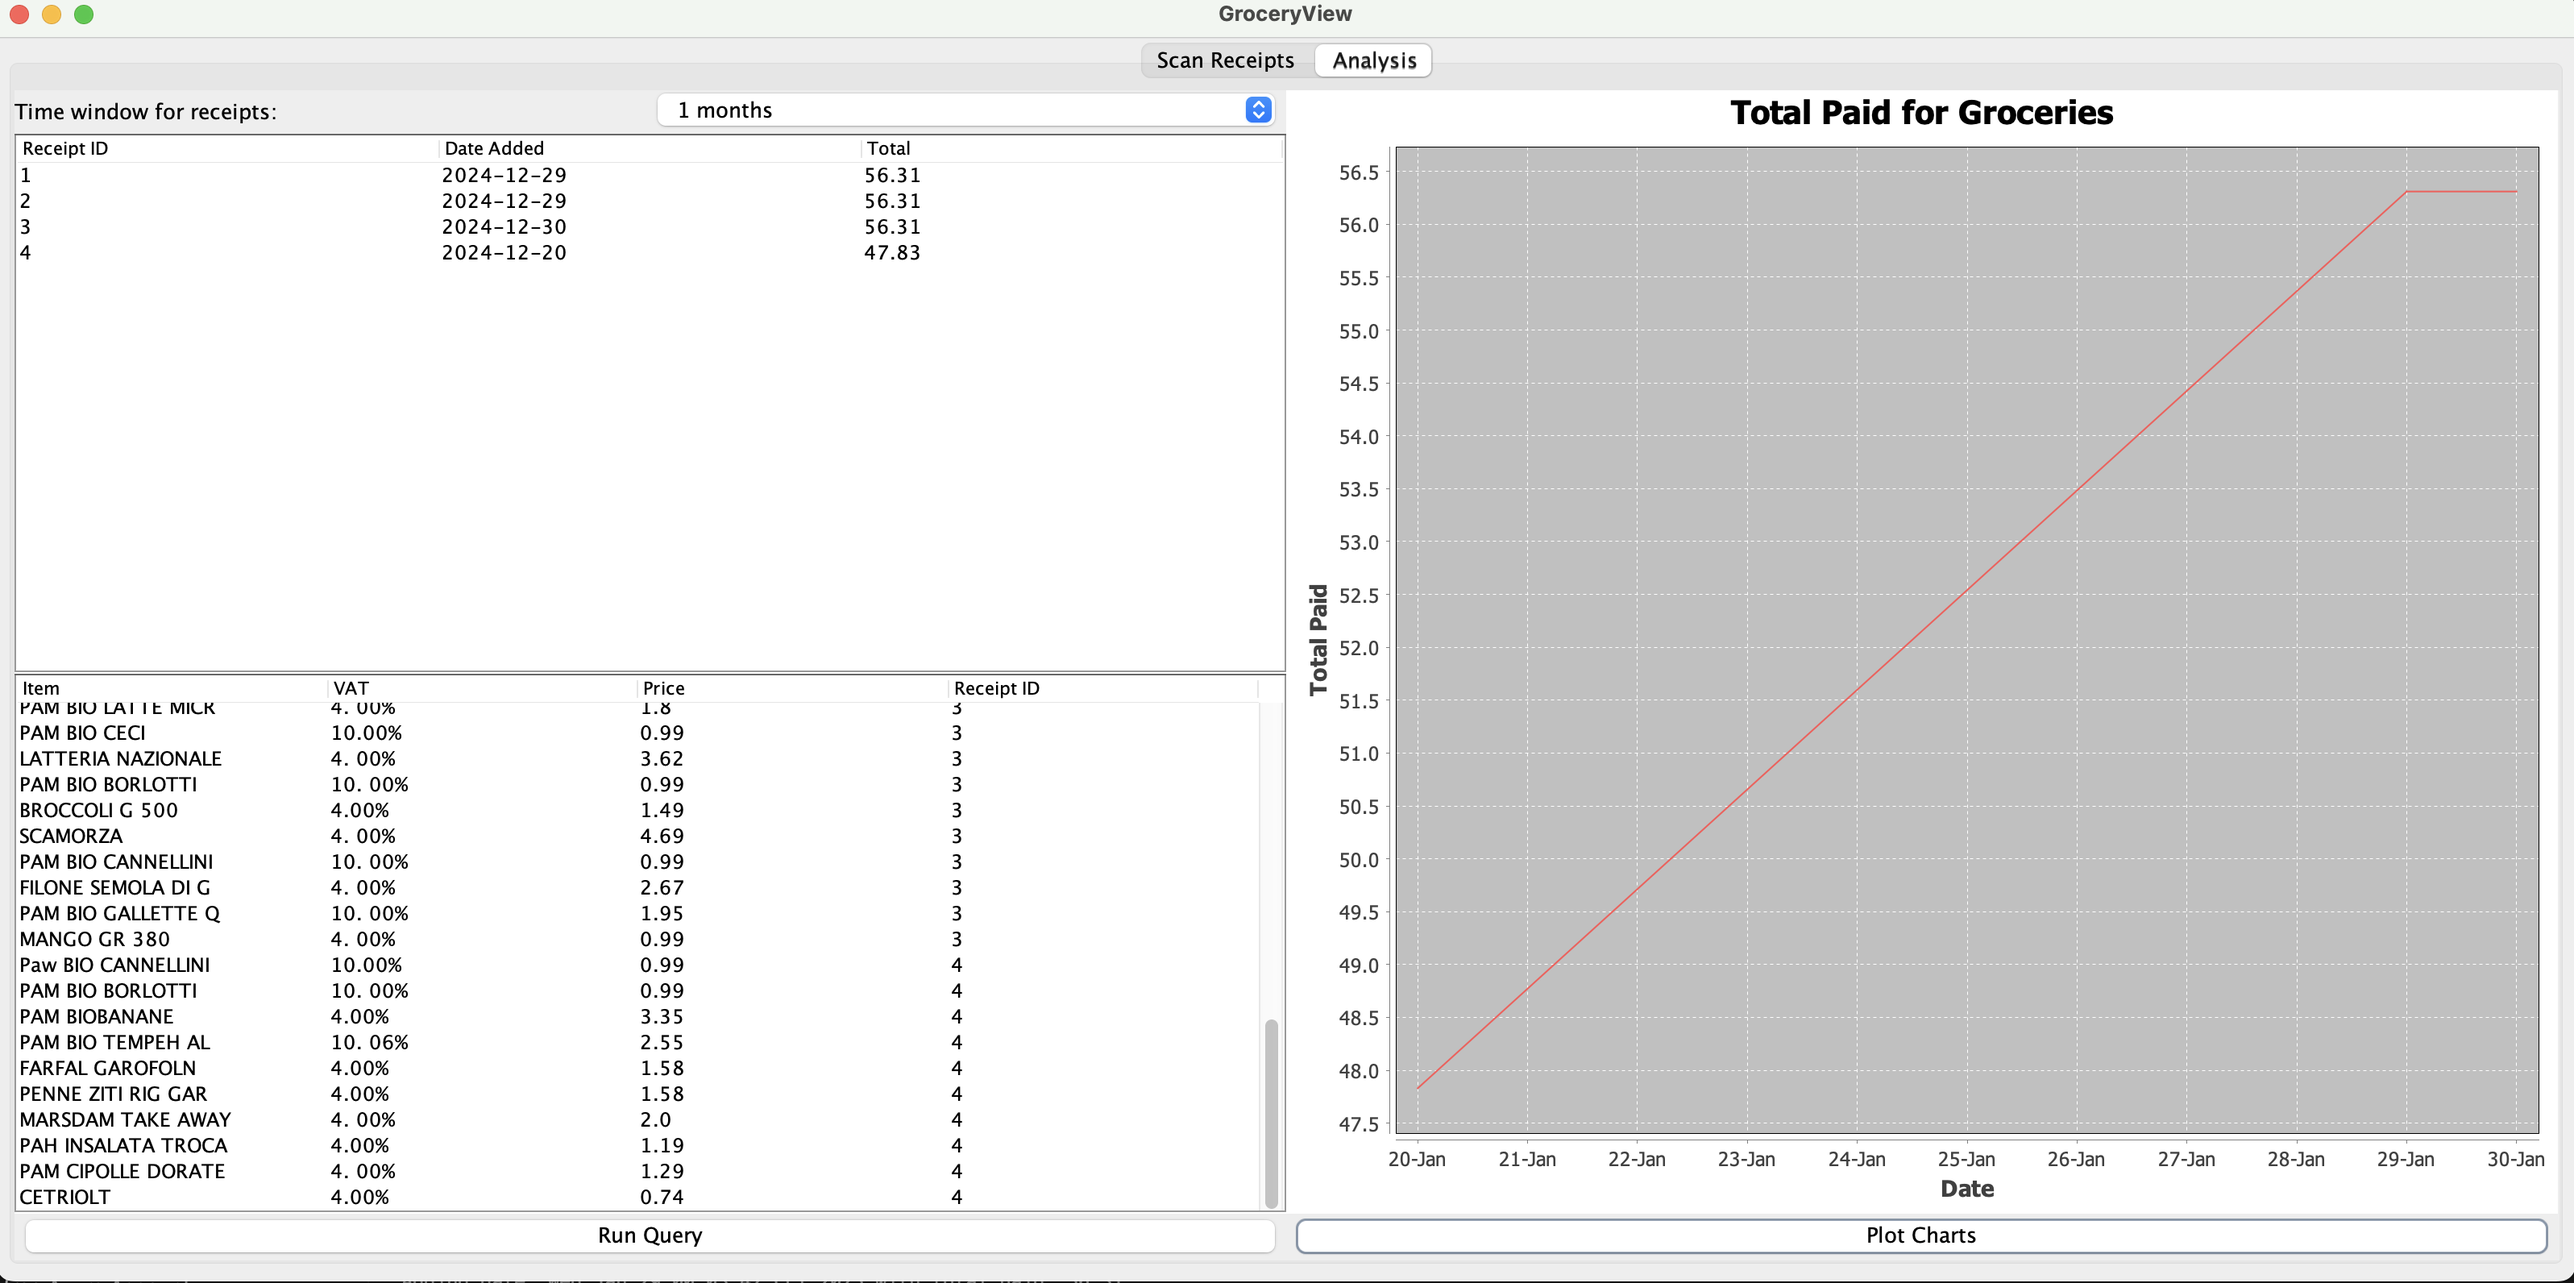
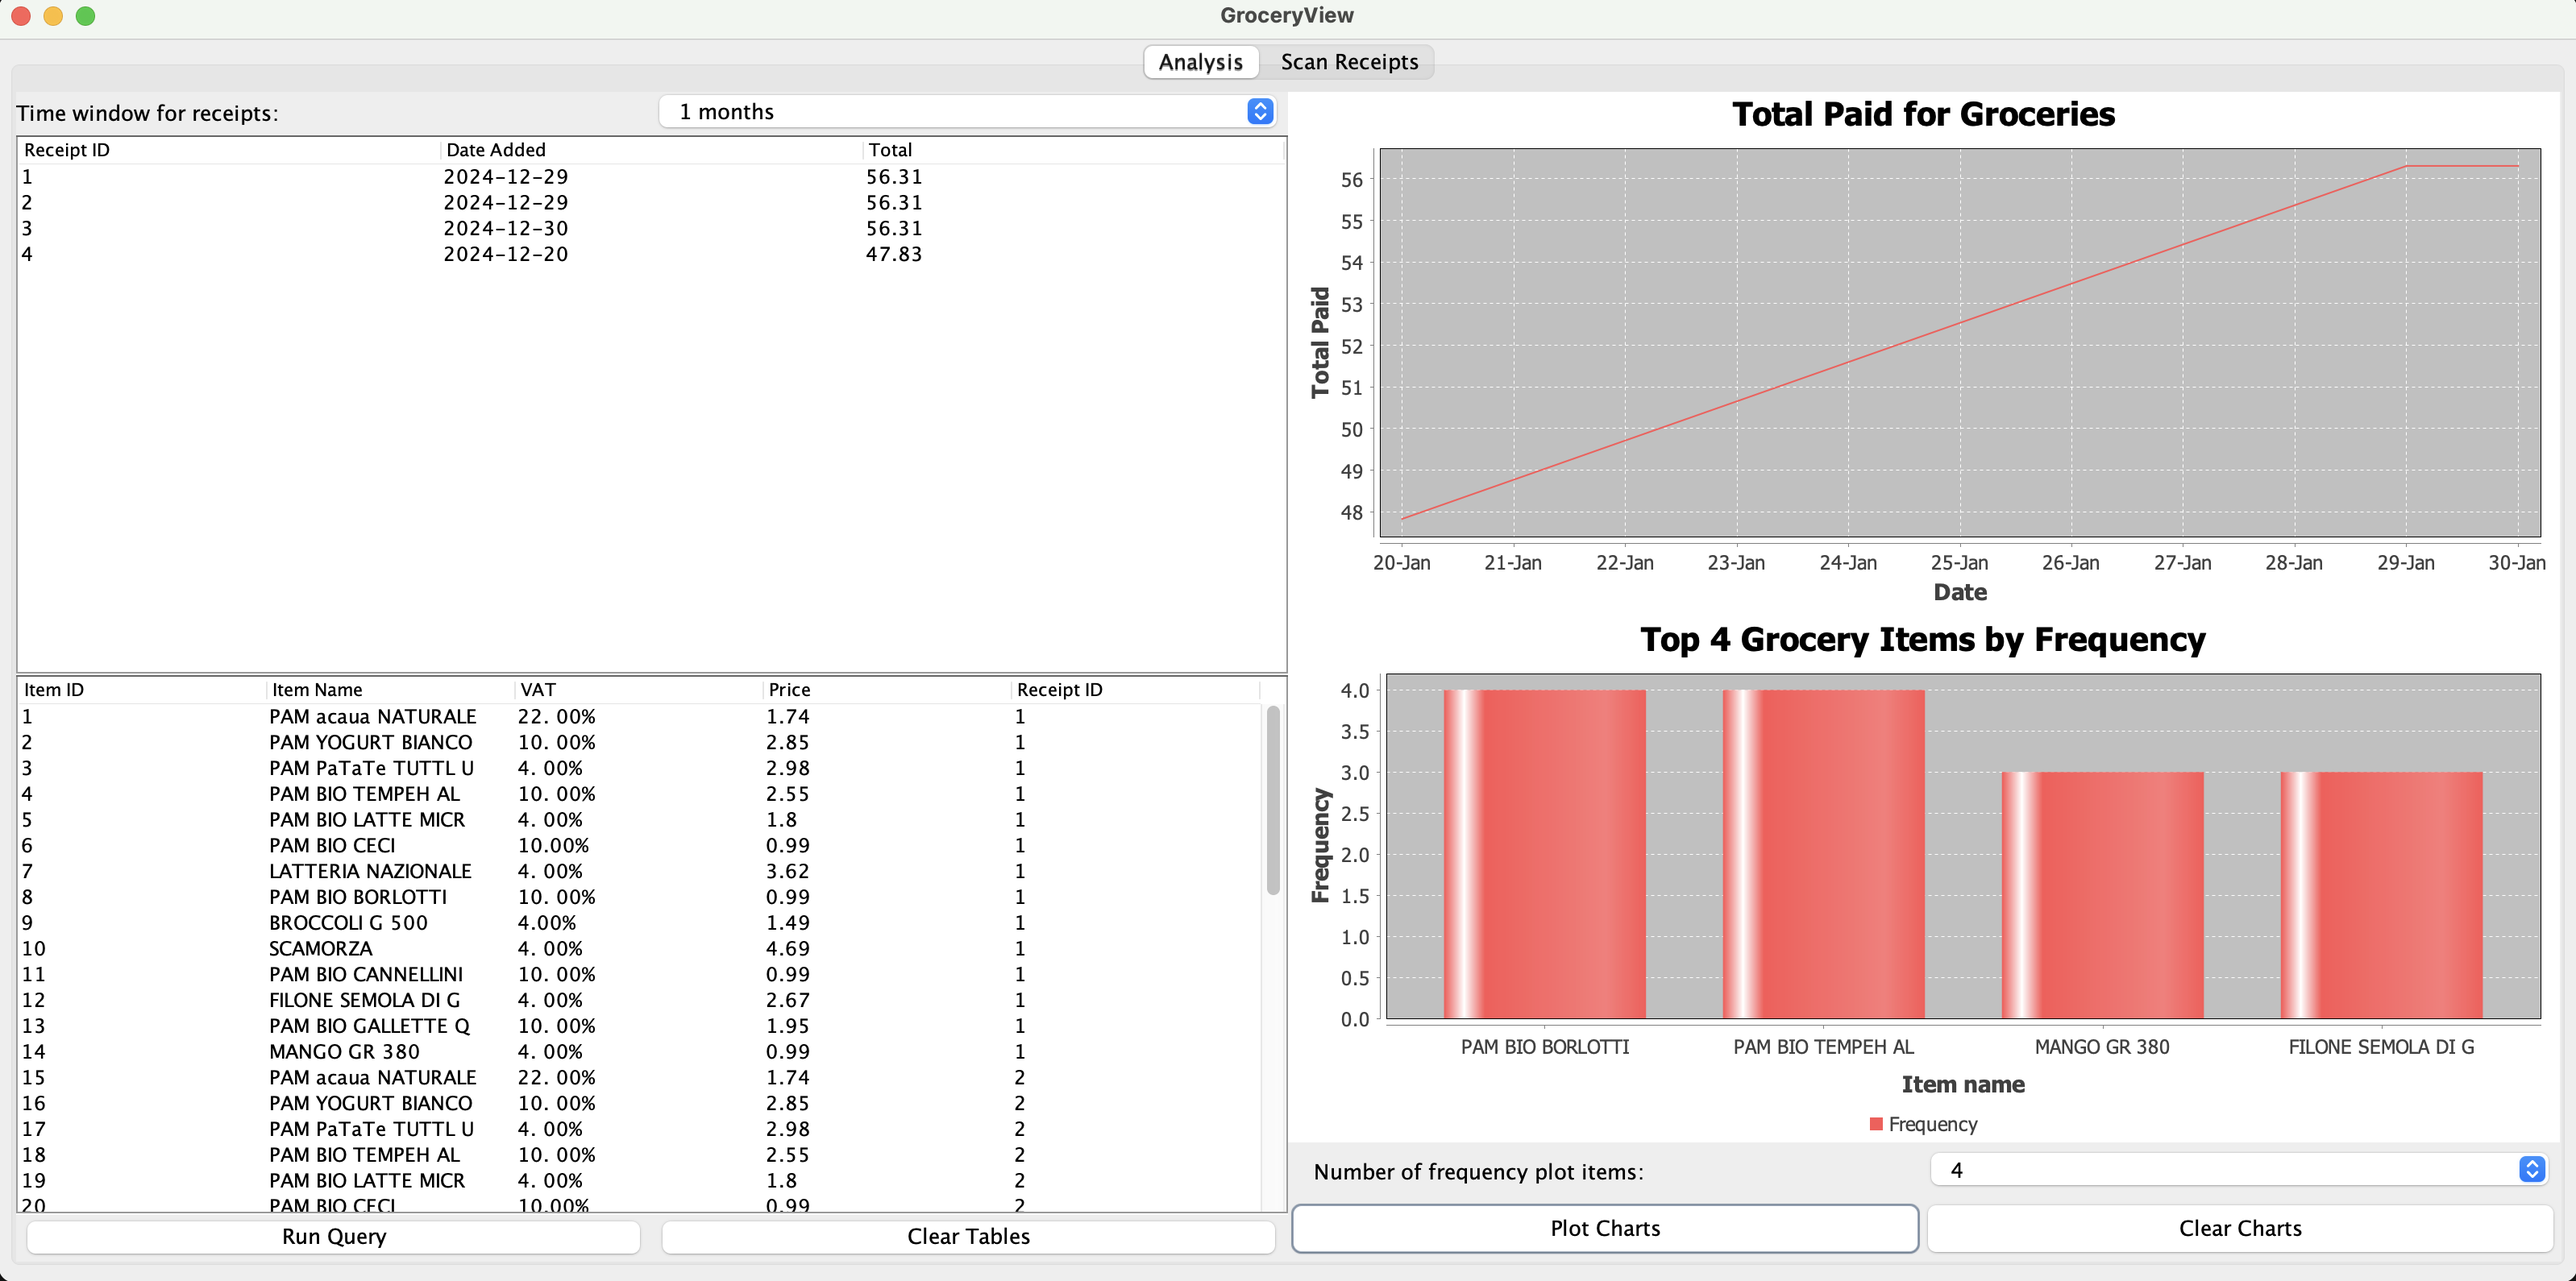
updates README and pics

diff --git a/README.md b/README.md
@@ -18,8 +18,16 @@ or to:
 
 
 ## App view:
-- Scan your receipt:
-![alt text](scan_tab.png)
-
-- Analyse the results
+### Analysis tab
+- Analyse the results:
+- Query the database for receipts and the grocery items
+- Display receipt expenses over time
+- Show top item frequency
 ![alt text](analysis_tab.png)
+
+### Scan tab
+- Scan your receipt:
+- Upload an image of your receipt
+- Use optical character recognition to extract text from the image
+- Save the receipt items to the database
+![alt text](scan_tab.png)
